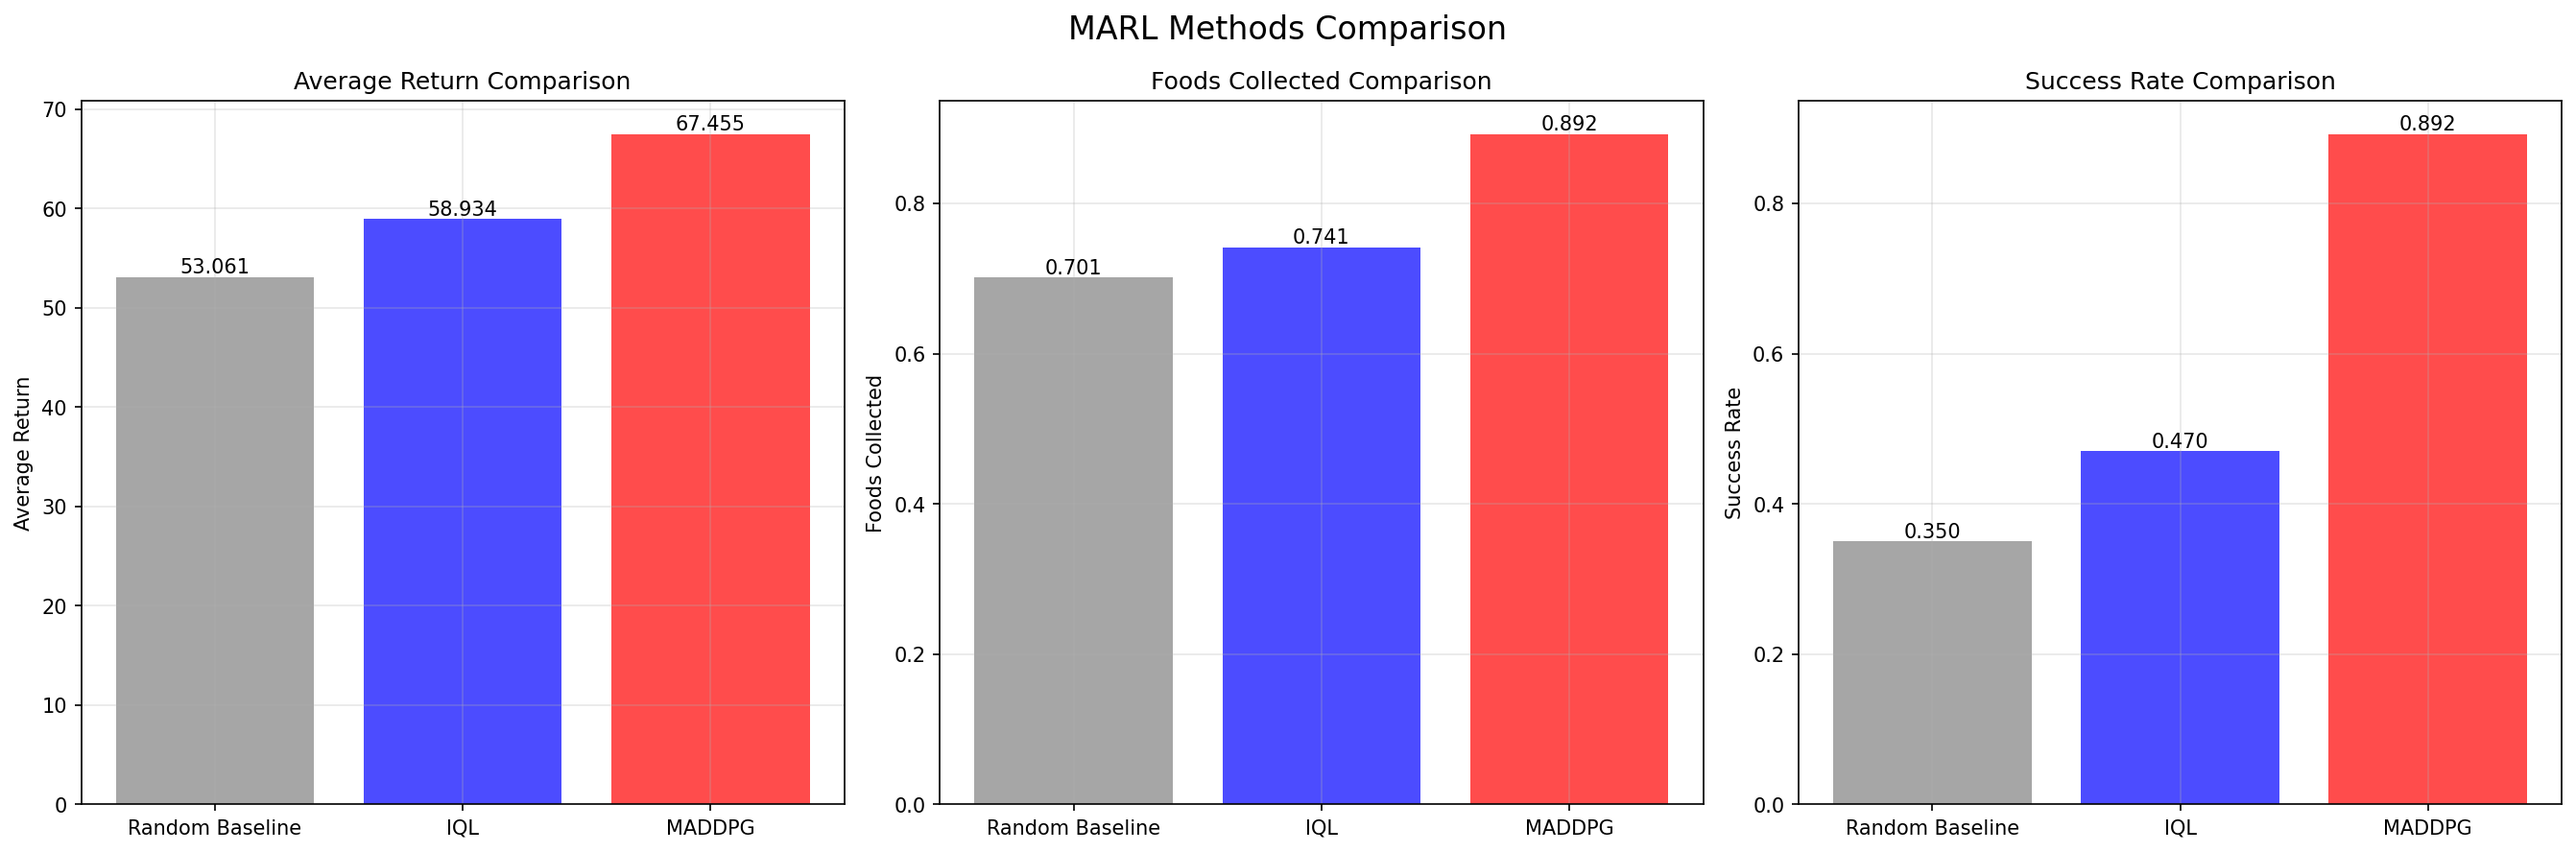
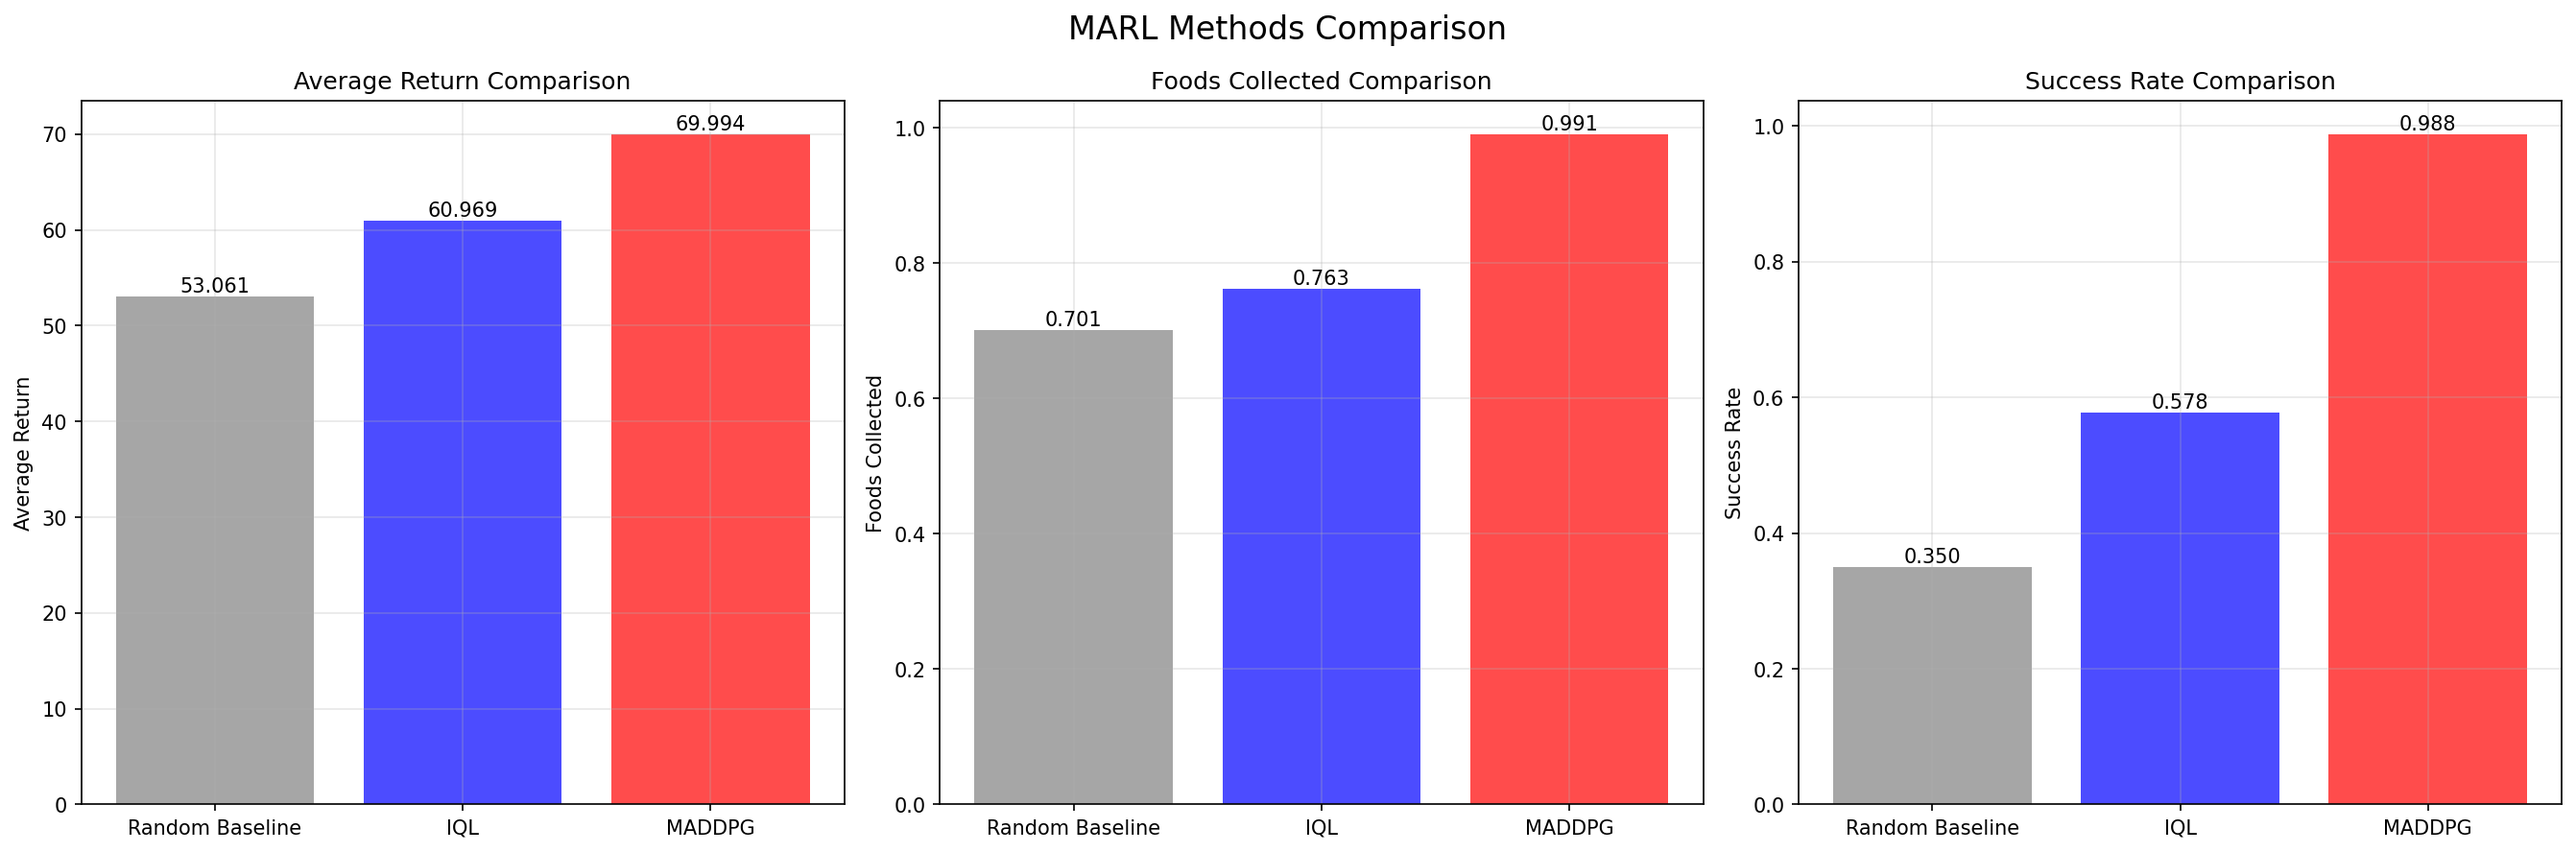
working fine for 2 models comparison

diff --git a/main.py b/main.py
@@ -84,7 +84,7 @@ def main():
     env = LBFEnv(**env_params, seed=42)
     try:
         iql_agents, iql_history = train_iql(
-            env, iql_params, episodes=800, eval_interval=200, verbose=True, seed=42
+            env, iql_params, episodes=2000, eval_interval=200, verbose=True, seed=42
         )
     except Exception as e:
         print(f"IQL training failed: {e}")
@@ -111,7 +111,7 @@ def main():
         print("No valid MADDPG hyperparameters found. Running random search...")
         try:
             maddpg_params, maddpg_results = optimizer.random_search(
-                model_type='maddpg', n_trials=10, training_episodes=200, seed=42, early_stopping_trials=8, min_trials=8
+                model_type='maddpg', n_trials=60, training_episodes=1000, seed=42, early_stopping_trials=10, min_trials=10
             )
             save_optimal_hyperparams(maddpg_params, maddpg_hyperparams_file)
         except Exception as e:
@@ -128,7 +128,7 @@ def main():
     env = LBFEnv(**env_params, seed=42)
     try:
         maddpg, maddpg_history = train_maddpg(
-            env, maddpg_params, episodes=800, eval_interval=200, verbose=True, seed=42
+            env, maddpg_params, episodes=2000, eval_interval=200, verbose=True, seed=42
         )
     except Exception as e:
         print(f"MADDPG training failed: {e}")
